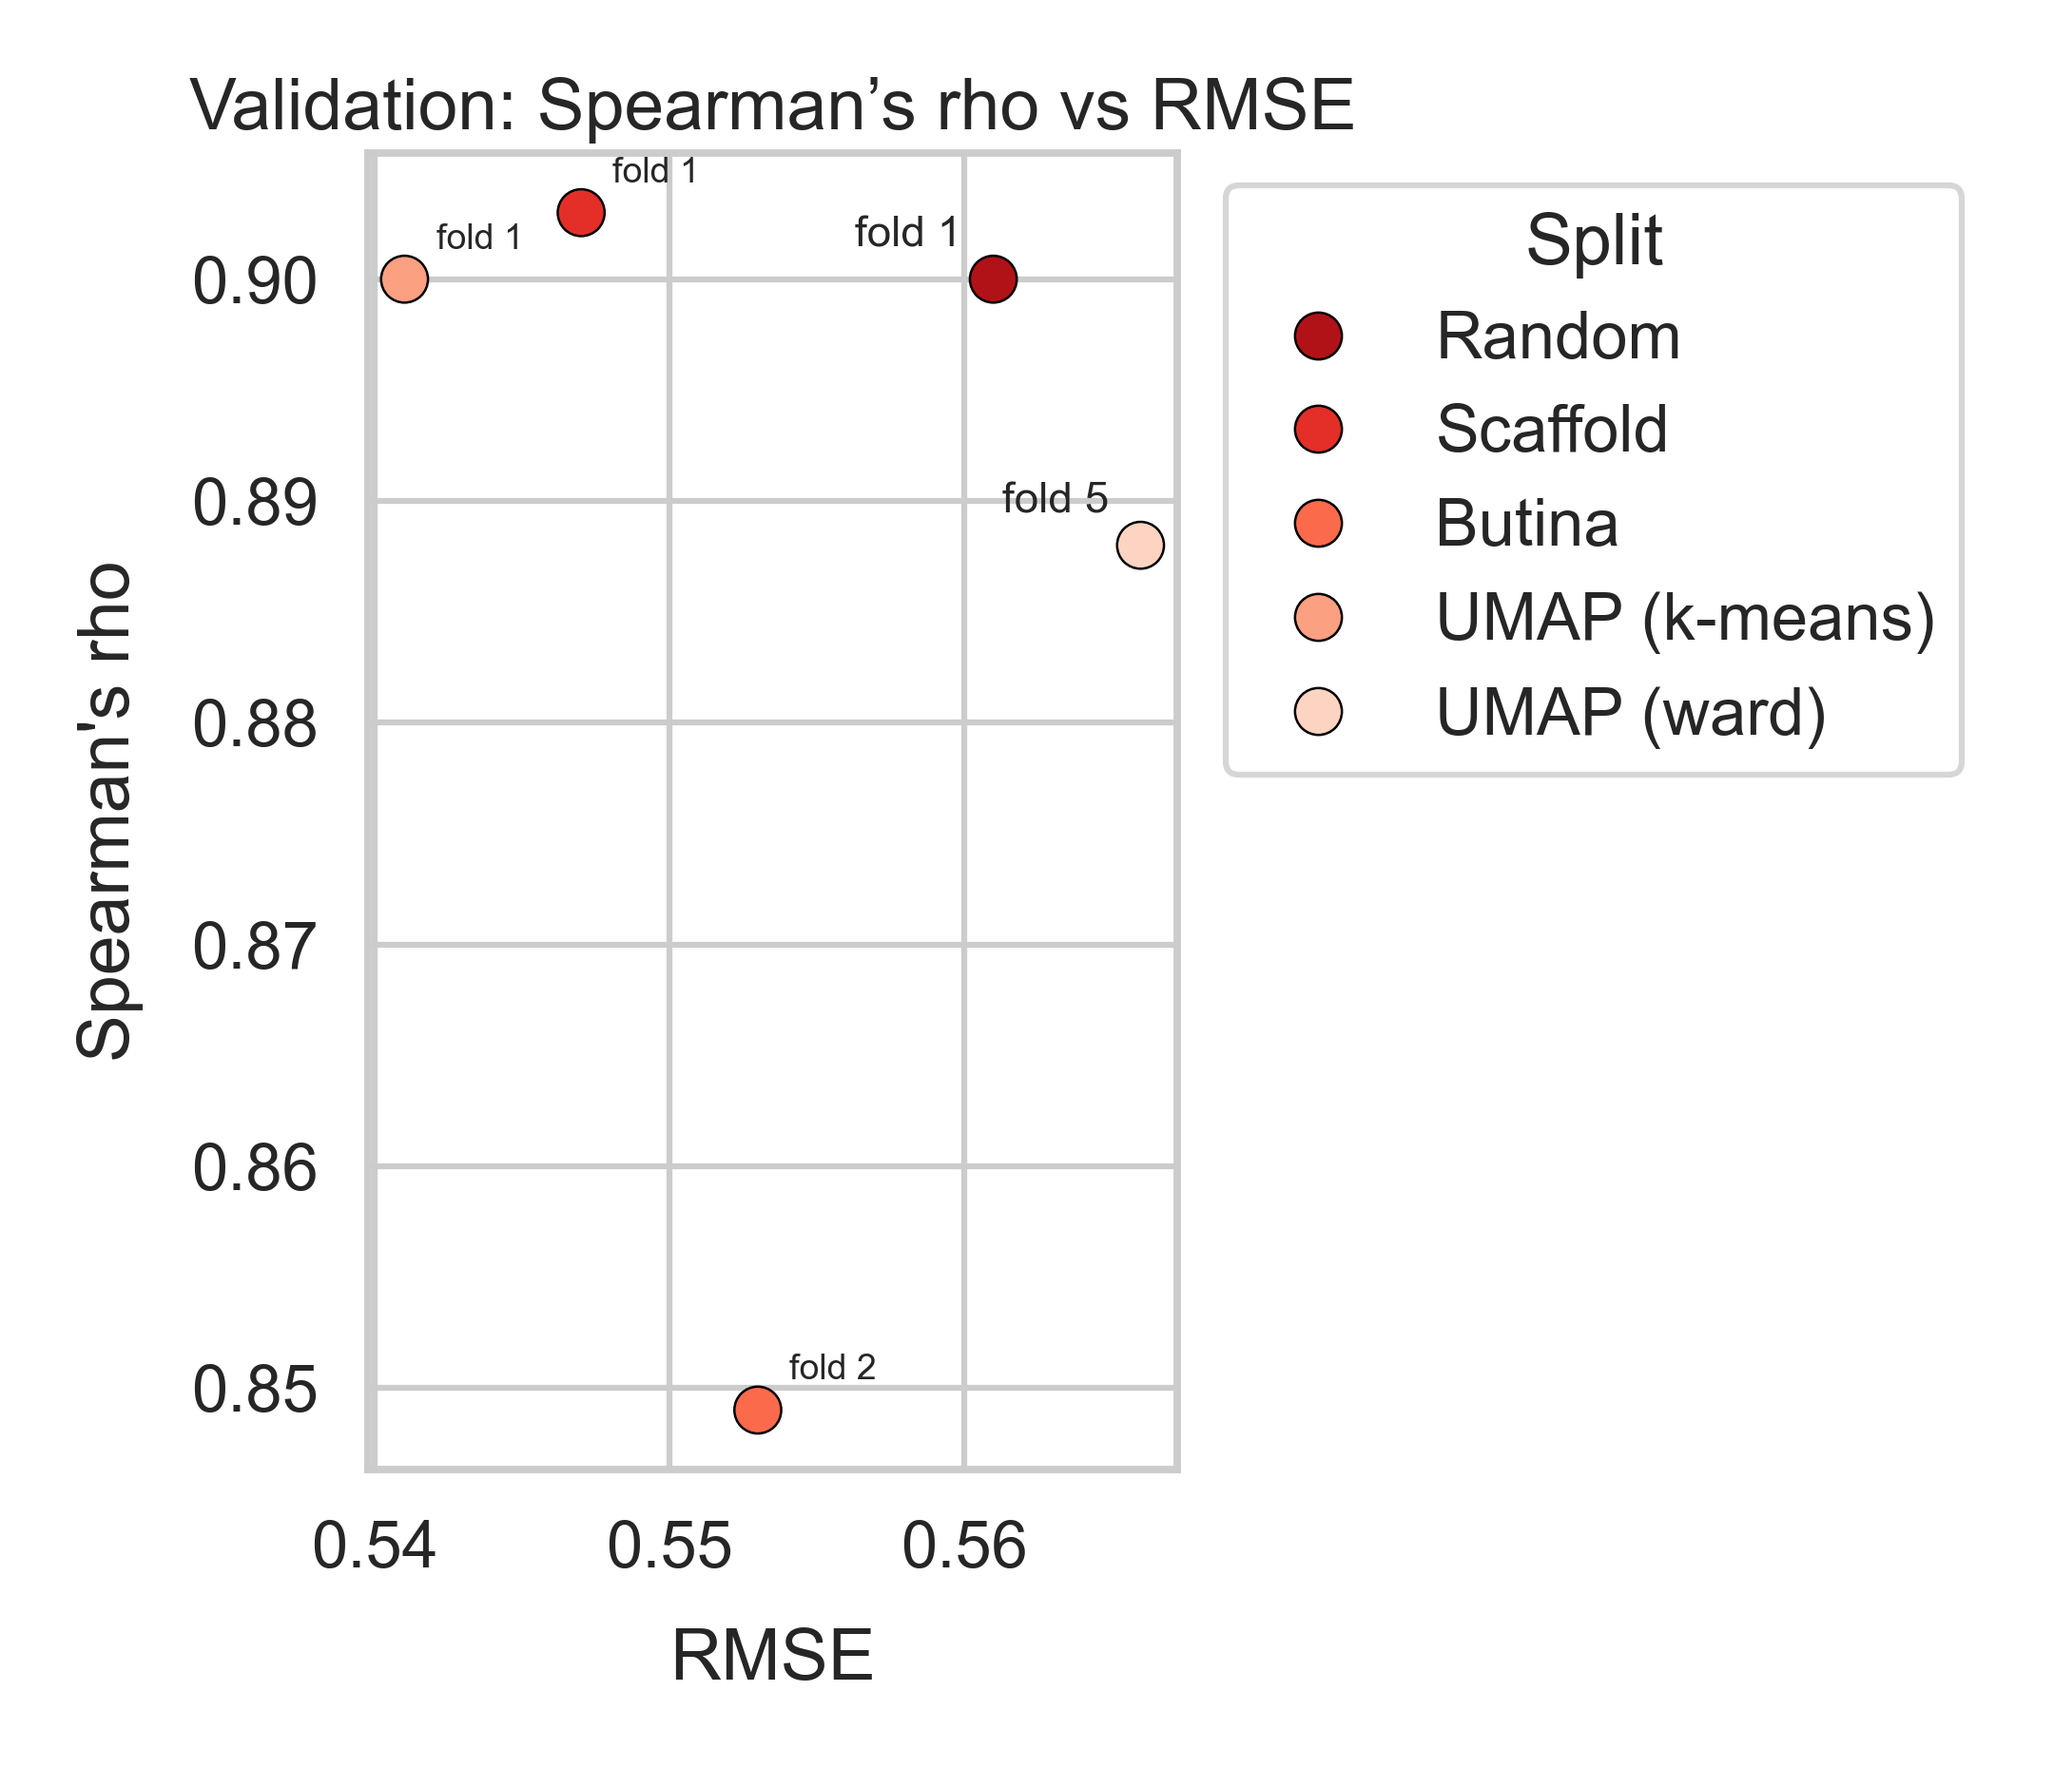
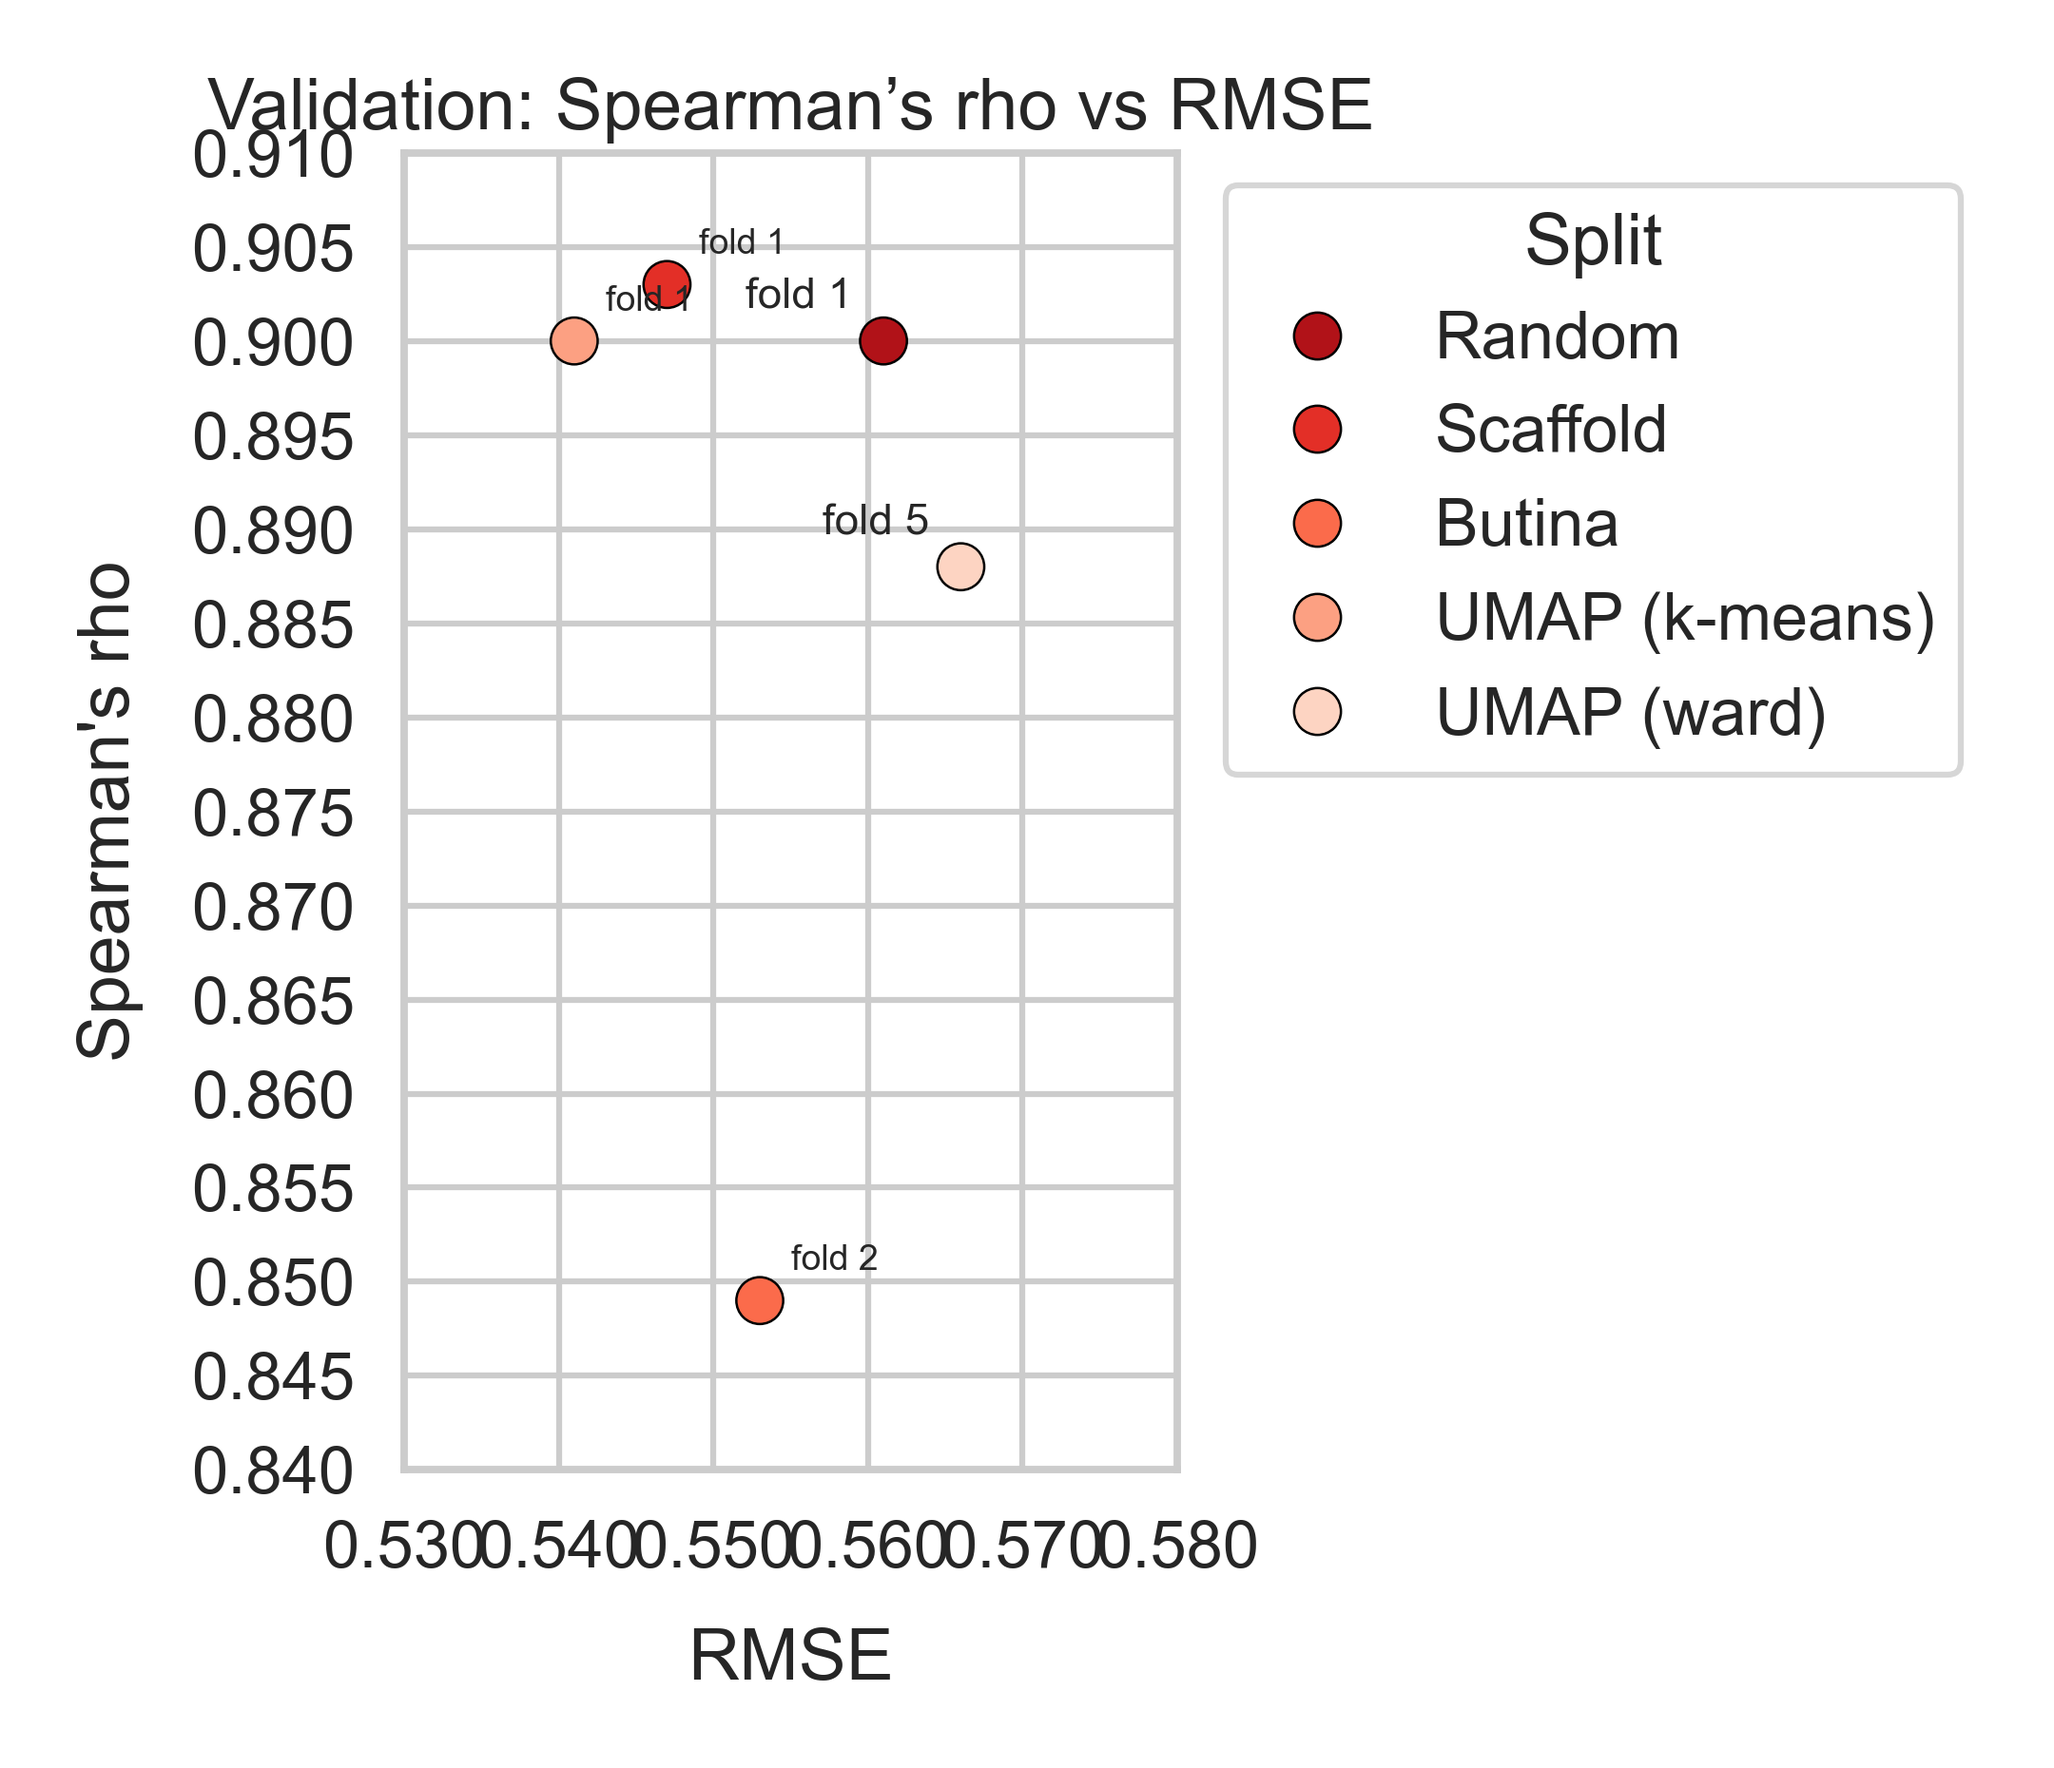
cahnges to train and validation graphs

diff --git a/p2_models/3 - analysis_test_results/figures/train_val_rmse_spearman/validation_performance.py b/p2_models/3 - analysis_test_results/figures/train_val_rmse_spearman/validation_performance.py
@@ -3,9 +3,11 @@
 Requirements:
     - Non import requirement: Validation data
 '''
+import math
 import pandas as pd
 import seaborn as sns
 import matplotlib.pyplot as plt
+import matplotlib.ticker as mticker
 
 val_rows = [
     {"Split": "Random", "Fold": 1, "RMSE": 0.561, "Spearman": 0.900, "n": 3962},
@@ -38,6 +40,33 @@ LABEL_PAD = 12
 ax.set_xlabel("RMSE", labelpad=LABEL_PAD)
 ax.set_ylabel("Spearman's rho", labelpad=LABEL_PAD)
 ax.set_title("Validation: Spearman’s rho vs RMSE")
+MAJOR_X = 0.01
+MAJOR_Y = 0.005
+MINOR_Y = 0.0025
+
+xmin, xmax = df["RMSE"].min(), df["RMSE"].max()
+ymin, ymax = df["Spearman"].min(), df["Spearman"].max()
+
+def nice_bounds(vmin, vmax, step, pad_steps=1):
+    lo = math.floor(vmin/step)*step - pad_steps*step
+    hi = math.ceil (vmax/step)*step + pad_steps*step
+    return lo, hi
+
+xlo, xhi = nice_bounds(xmin, xmax, MAJOR_X, pad_steps=1)
+ylo, yhi = nice_bounds(ymin, ymax, MAJOR_Y, pad_steps=1)
+
+ax.set_xlim(xlo, xhi)
+ax.set_ylim(ylo, yhi)
+
+# X: major ticks only, fewer labels
+ax.xaxis.set_major_locator(mticker.MultipleLocator(MAJOR_X))
+ax.xaxis.set_major_formatter(mticker.FormatStrFormatter('%.3f'))
+ax.xaxis.set_minor_locator(mticker.NullLocator())  # no minor x ticks
+
+# Y: dense ticks (major + minor)
+ax.yaxis.set_major_locator(mticker.MultipleLocator(MAJOR_Y))
+ax.yaxis.set_minor_locator(mticker.MultipleLocator(MINOR_Y))
+ax.yaxis.set_major_formatter(mticker.FormatStrFormatter('%.3f'))
 
 # Annotate folds
 rightmost_idx = df.nlargest(2, "RMSE").index
@@ -59,5 +88,5 @@ for idx, r in df.iterrows():
 ax.legend(title="Split", bbox_to_anchor=(1.02, 1), loc="upper left", frameon=True)
 
 plt.tight_layout()
-plt.savefig("p2_models/3 - analysis_test_results/figures/validation_rmse_spearman/validation_performance.png", dpi=300)
+plt.savefig("p2_models/3 - analysis_test_results/figures/train_val_rmse_spearman/validation_performance.png", dpi=300)
 plt.show()

diff --git a/p2_models/3 - analysis_test_results/figures/train_val_rmse_spearman/train_performance.py b/p2_models/3 - analysis_test_results/figures/train_val_rmse_spearman/train_performance.py
@@ -3,9 +3,11 @@
 Requirements:
     - Non import requirement: Raw test data
 '''
+import math
 import pandas as pd
 import seaborn as sns
 import matplotlib.pyplot as plt
+import matplotlib.ticker as mticker
 
 train_rows = [
     {"Split": "Random",         "Fold": 1, "RMSE": 0.413, "Spearman": 0.950, "n": 28349},
@@ -38,6 +40,37 @@ LABEL_PAD = 12
 ax.set_xlabel("RMSE", labelpad=LABEL_PAD)
 ax.set_ylabel("Spearman's rho", labelpad=LABEL_PAD)
 ax.set_title("Training: Spearman's rho vs RMSE")
+
+MAJOR_X = 0.01
+MAJOR_Y = 0.005
+MINOR_Y = 0.0025
+
+xmin, xmax = df["RMSE"].min(), df["RMSE"].max()
+ymin, ymax = df["Spearman"].min(), df["Spearman"].max()
+
+def nice_bounds(vmin, vmax, step, pad_steps=1):
+    lo = math.floor(vmin/step)*step - pad_steps*step
+    hi = math.ceil (vmax/step)*step + pad_steps*step
+    return lo, hi
+
+xlo, xhi = nice_bounds(xmin, xmax, MAJOR_X, pad_steps=1)
+ylo, yhi = nice_bounds(ymin, ymax, MAJOR_Y, pad_steps=1)
+
+ax.set_xlim(xlo, xhi)
+ax.set_ylim(ylo, yhi)
+
+# X: major ticks only, fewer labels
+ax.xaxis.set_major_locator(mticker.MultipleLocator(MAJOR_X))
+ax.xaxis.set_major_formatter(mticker.FormatStrFormatter('%.3f'))
+ax.xaxis.set_minor_locator(mticker.NullLocator())  # no minor x ticks
+
+# Y: dense ticks (major + minor)
+ax.yaxis.set_major_locator(mticker.MultipleLocator(MAJOR_Y))
+ax.yaxis.set_minor_locator(mticker.MultipleLocator(MINOR_Y))
+ax.yaxis.set_major_formatter(mticker.FormatStrFormatter('%.3f'))
+
+ax.grid(True, which="major", linestyle="--", linewidth=0.6, alpha=0.6)
+ax.grid(True, which="minor", linestyle=":", linewidth=0.5, alpha=0.35)
 
 # Annotate
 rightmost_idx = df.nlargest(2, "RMSE").index
